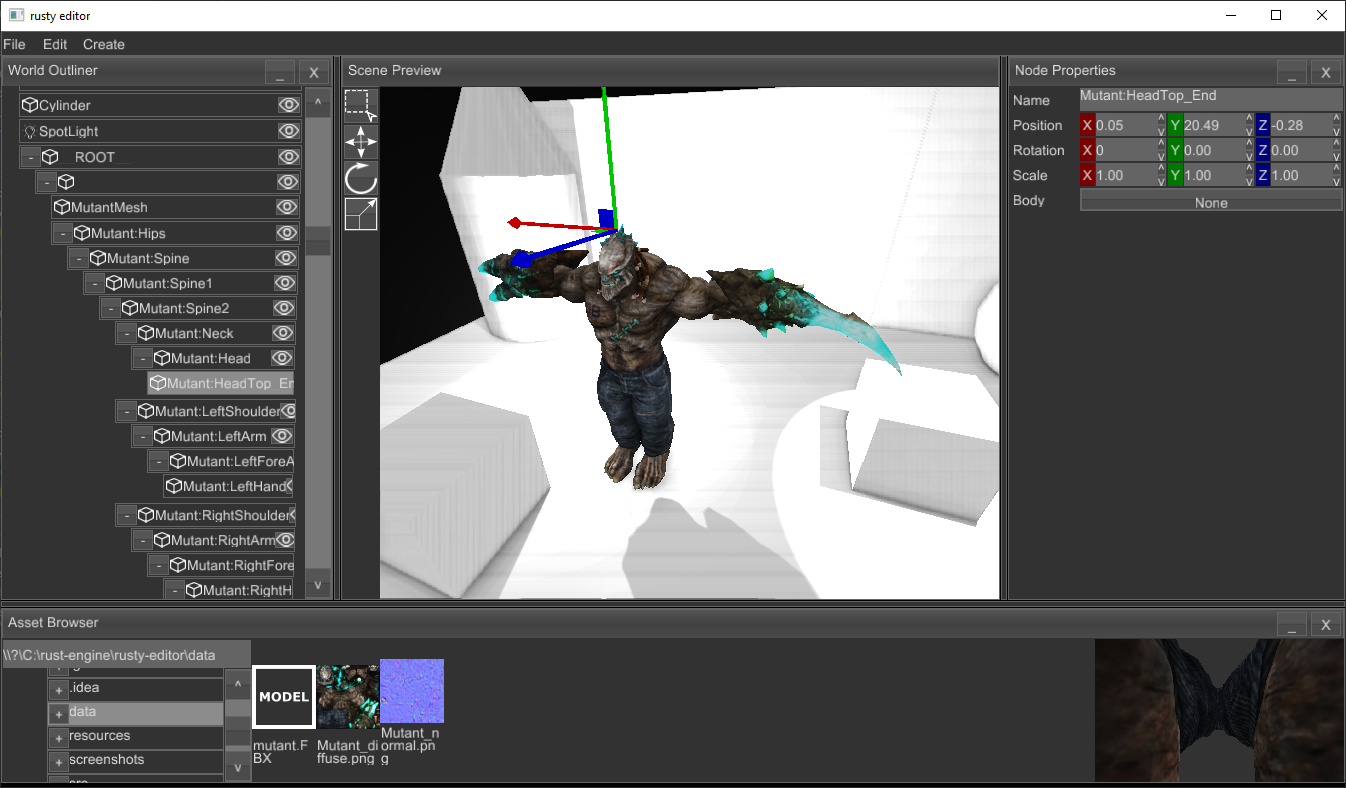
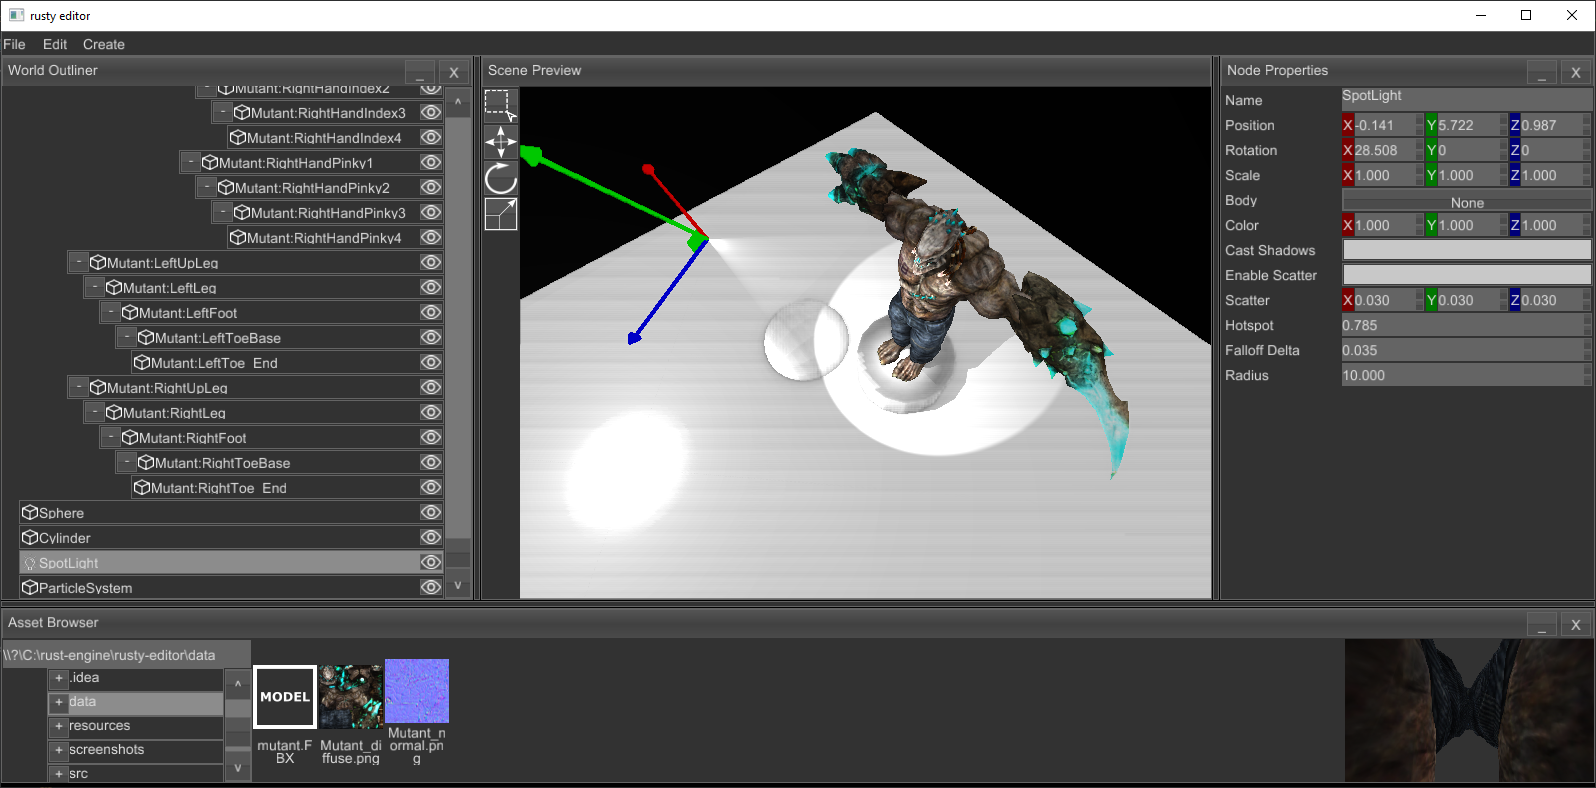
updated readme, updated screenshot, fixed radius field type

diff --git a/src/sidebar.rs b/src/sidebar.rs
@@ -370,7 +370,7 @@ impl SpotLightSection {
                     })
                     .with_child(make_text_mark(ctx, "Radius", 2))
                     .with_child({
-                        distance = make_vec3_input_field(ctx, 2);
+                        distance = make_f32_input_field(ctx, 2);
                         distance
                     }),
             )

diff --git a/README.md b/README.md
@@ -87,9 +87,11 @@ let scene_handle = engine.scenes.add(scene);
 - [x] Multi selection
 - [x] Menu
 	- [x] File
+		- [x] New scene
 		- [x] Save
 		- [x] Save as
-		- [x] Load (still needs file selector to open to select desired scene to load)
+		- [x] Load
+		- [x] Close scene
 		- [x] Exit
 	- [x] Edit
 		- [x] Undo
@@ -103,17 +105,9 @@ let scene_handle = engine.scenes.add(scene);
 		- [x] Light
 			- [x] Spot light
 			- [x] Point light
-- [ ] Commands
-	- [x] Move.
-	- [x] Scale.
-	- [x] Rotate.
-	- [x] Delete node.
-	- [x] Create node.
-	- [x] Link nodes.
-	- [x] Select nodes.
-	- [x] Set name.
-	- [x] Set visible.
-	- [ ] Other?
+		- [x] Particle system
+		- [x] Camera
+		- [x] Sprite
 - [ ] World outliner
 	- [x] Syncing with graph.
 	- [x] Syncing selection with scene selection and vice versa.
@@ -122,19 +116,32 @@ let scene_handle = engine.scenes.add(scene);
 	- [x] Visibility switch
 	- [ ] Nodes context menu
 - [ ] Node properties editor
-	- [ ] Base node
-		- [x] Show name.
-		- [x] Edit name.
-		- [x] Edit position.
-		- [x] Edit rotation.
-		- [x] Edit scale.
-	- [ ] Light node
+	- [x] Base node
+		- [x] Name
+		- [x] Position
+		- [x] Rotation
+		- [x] Scale
+		- [x] Physical body
+	- [x] Light node
+		- [x] Cast shadows
+		- [x] Enable scatter
+		- [x] Scatter
+		- [x] Color
+		- [x] Point light
+			- [x] Radius
+		- [x] Spot light
+			- [x] Hotspot angle
+			- [x] Falloff angle delta
+			- [x] Distance
+	- [x] Camera node
+		- [x] Fov
+		- [x] Z near
+		- [x] Z far
 	- [ ] Particle system node.
-		- [ ] Particle system properties.
+		- [x] Acceleration
+		- [ ] Other
 	- [ ] Sprite node.
 		- [ ] Sprite properties.
-	- [ ] Mesh node.
-		- [ ] Mesh properties.
 - [ ] Asset browser.
 	- [x] Proof-of-concept version
 - [ ] Animation graph editor
